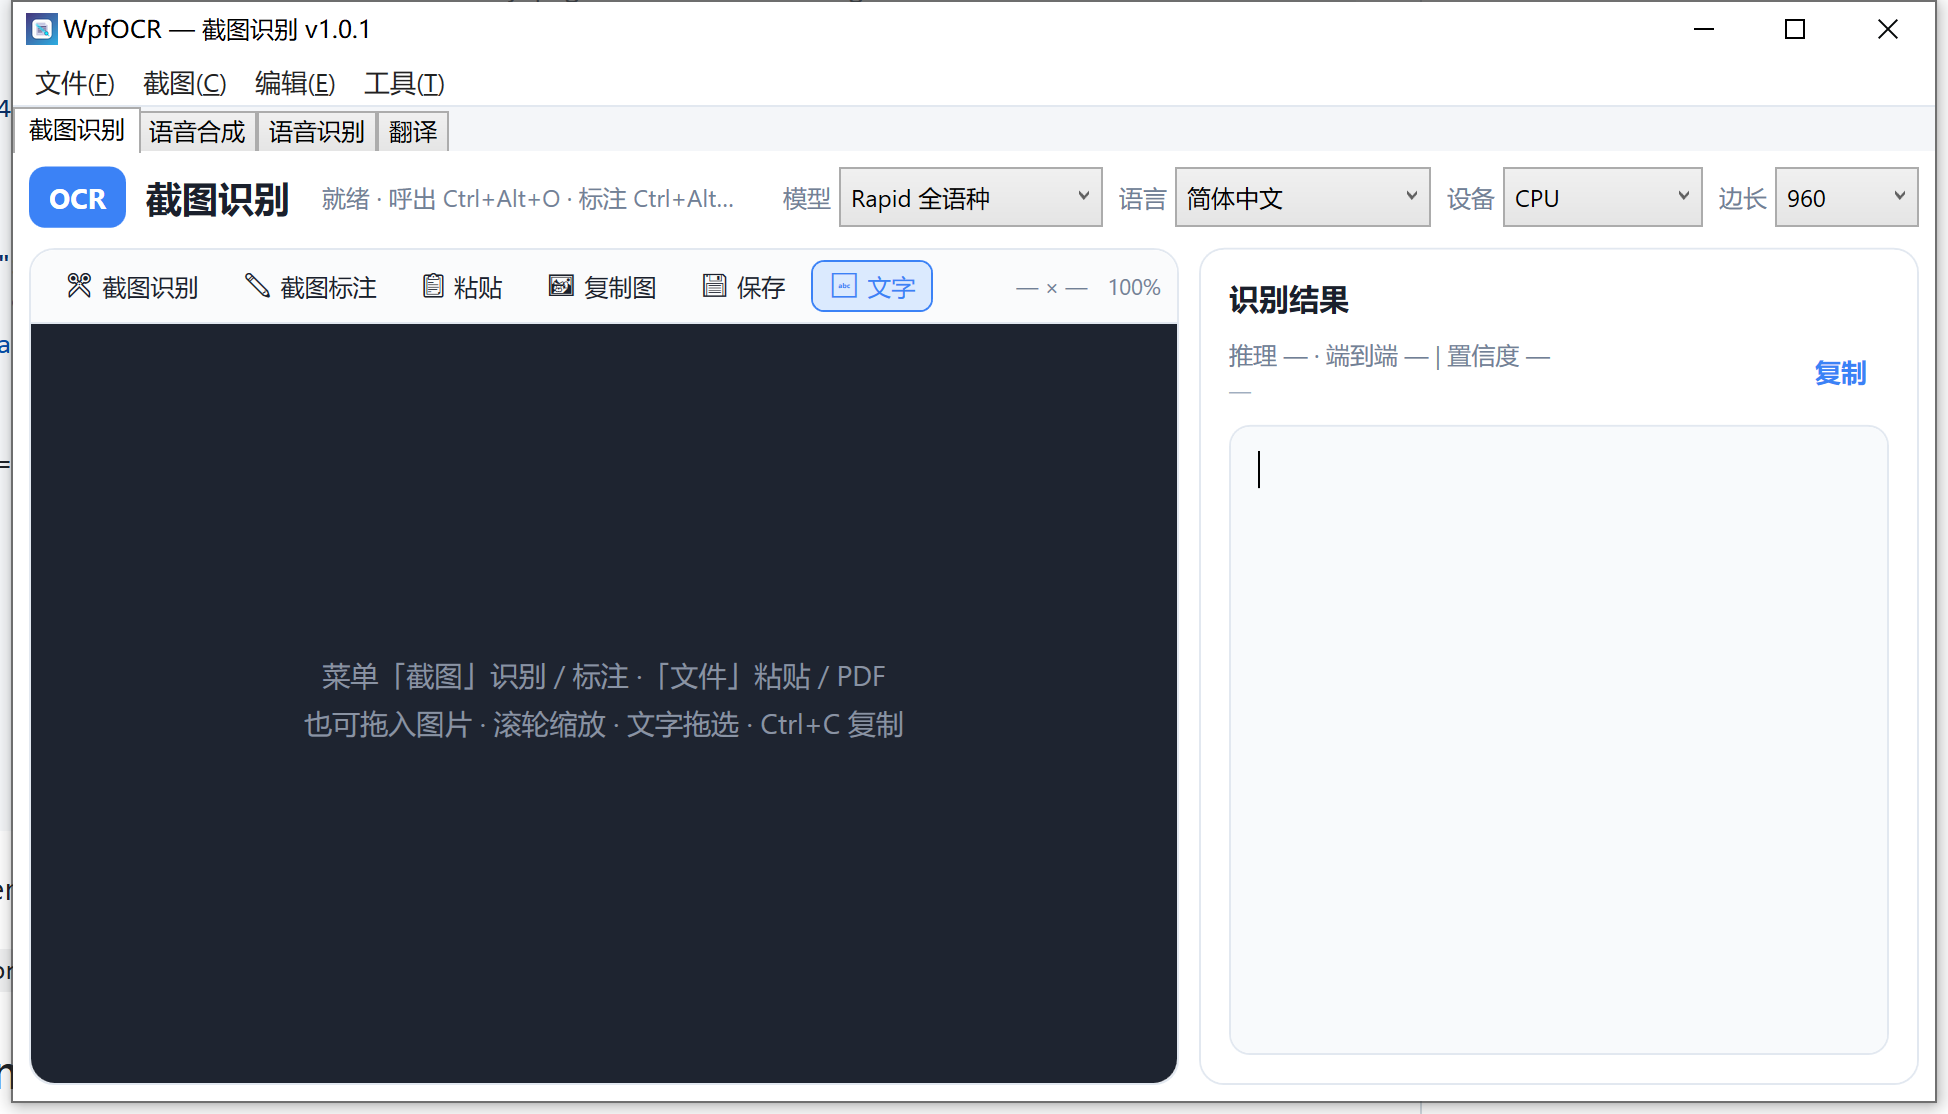
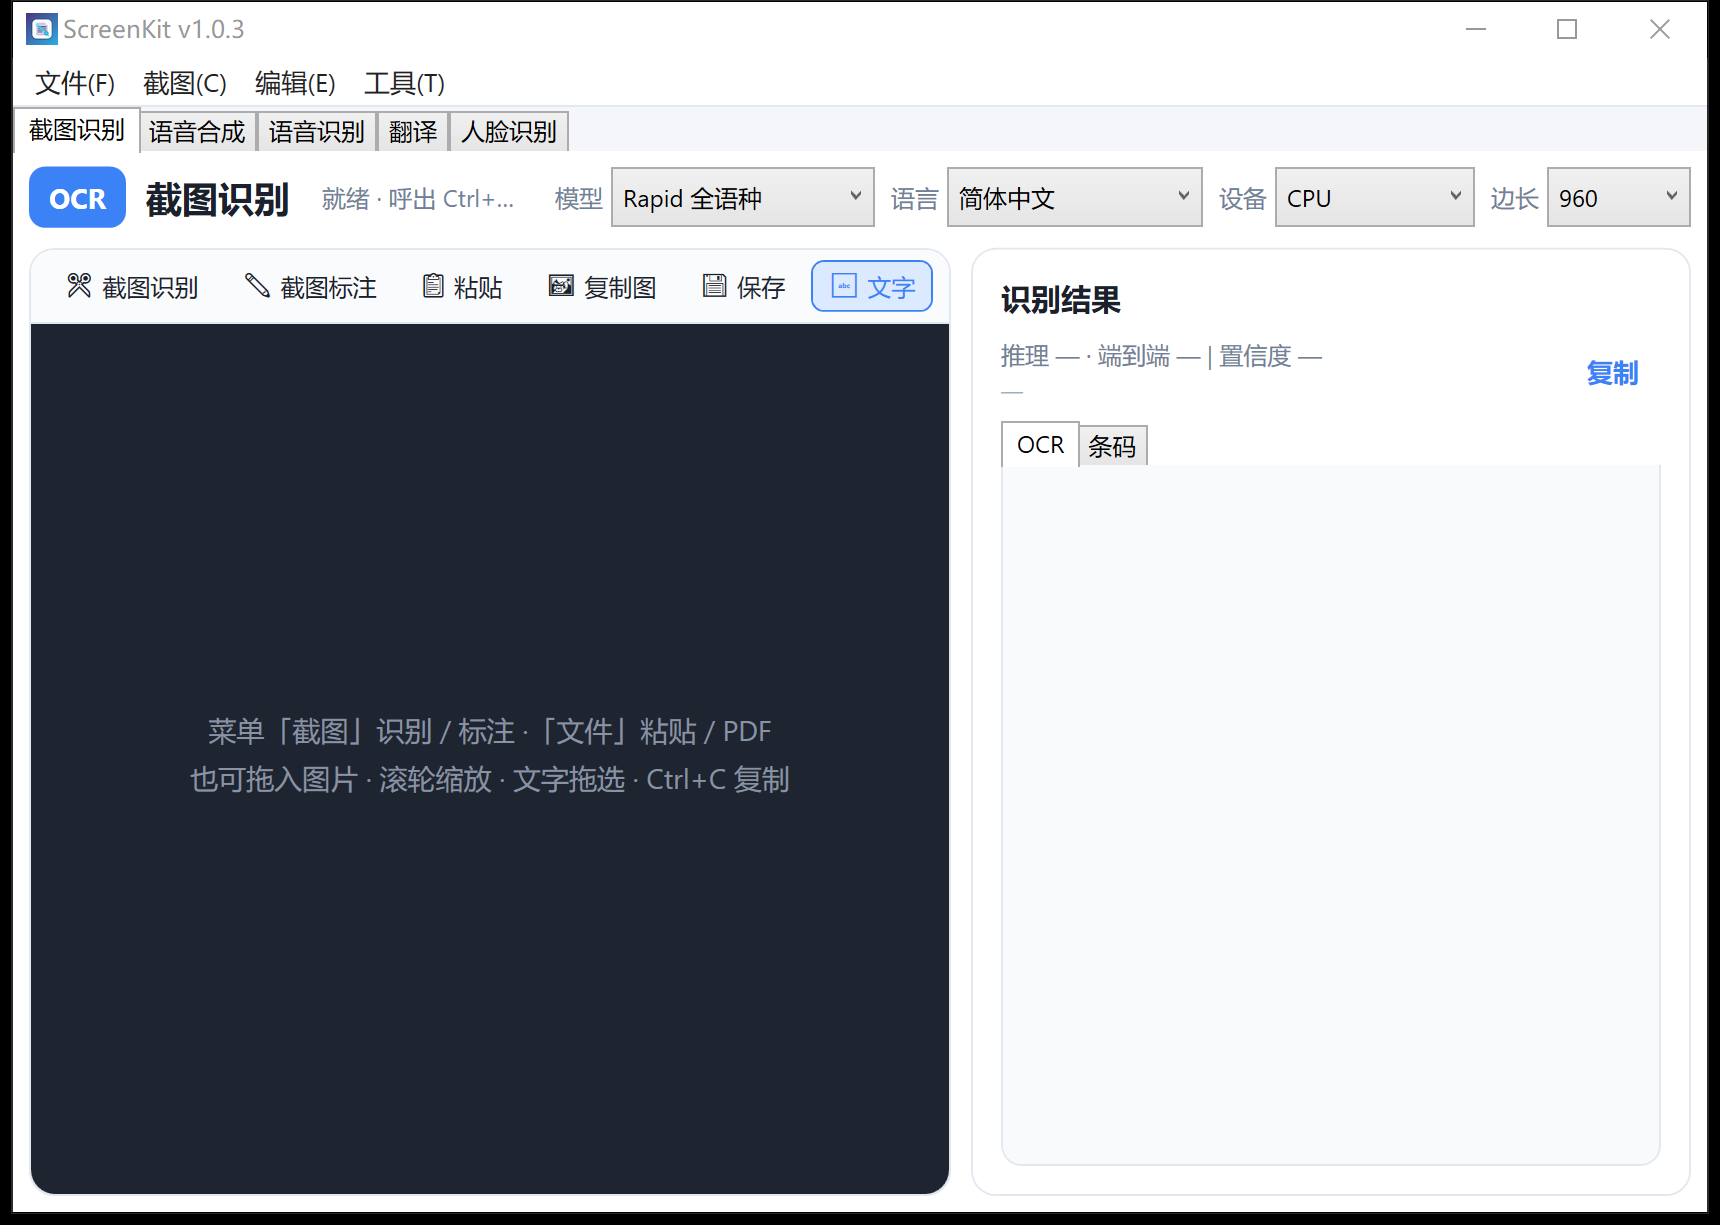
README 增加英文界面截图，并修复主窗口 Tab 不随语言切换。

diff --git a/ScreenKit/Infrastructure/Loc.cs b/ScreenKit/Infrastructure/Loc.cs
@@ -158,6 +158,8 @@ static class Loc {
 		// 主 Tab
 		["tab.ocr"] = "截图识别",
 		["tab.tts"] = "语音合成",
+		["tab.asr"] = "语音识别",
+		["tab.translate"] = "翻译",
 		["tab.face"] = "人脸识别",
 
 		// 工具栏
@@ -476,7 +478,9 @@ static class Loc {
 		["device.igpu.tip"] = "Intel iGPU via DirectML",
 
 		["tab.ocr"] = "Screenshot OCR",
-		["tab.tts"] = "Speech",
+		["tab.tts"] = "TTS",
+		["tab.asr"] = "ASR",
+		["tab.translate"] = "Translate",
 		["tab.face"] = "Face",
 
 		["tb.ocr"] = "OCR",

diff --git a/ScreenKit/MainWindow.xaml.cs b/ScreenKit/MainWindow.xaml.cs
@@ -1073,6 +1073,11 @@ public partial class MainWindow : Window {
 			mnabout.Header = Loc.T("menu.about");
 			mnabout.ToolTip = Loc.T("menu.about.tip");
 
+			tabocr.Header = Loc.T("tab.ocr");
+			tabtts.Header = Loc.T("tab.tts");
+			tabasr.Header = Loc.T("tab.asr");
+			tabtr.Header = Loc.T("tab.translate");
+
 			// 顶栏
 			lbpack.Text = Loc.T("label.pack");
 			lbvariant.Text = Loc.T("label.variant");

diff --git a/CHANGELOG.md b/CHANGELOG.md
@@ -4,6 +4,28 @@ All notable changes to ScreenKit are documented here. / 本文件记录 ScreenKi
 
 Format based on [Keep a Changelog](https://keepachangelog.com/). Versions are project milestones. / 格式基于 Keep a Changelog，版本号表示项目里程碑。
 
+## Unreleased
+
+### English
+
+#### Changed
+
+- README screenshot: English UI in `docs/1 screenshot.en.png`; Chinese README uses an updated `docs/1 screenshot.png` (ScreenKit 1.0.3).
+
+#### Fixed
+
+- Main window tabs (Screenshot OCR / TTS / ASR / Translate) follow the UI language.
+
+### 中文
+
+#### 变更
+
+- README 增加英文界面截图 `docs/1 screenshot.en.png`；中文 README 截图更新为当前 ScreenKit 主界面。
+
+#### 修复
+
+- 主窗口顶栏 Tab（截图识别 / 语音合成 / 语音识别 / 翻译）随界面语言切换。
+
 ## v1.0.3 (2026-08-30)
 
 ### English

diff --git a/README.md b/README.md
@@ -8,7 +8,7 @@ Current version: **1.0.3**
 
 ## Screenshots
 
-![ScreenKit main window](docs/1%20screenshot.png)
+![ScreenKit main window](docs/1%20screenshot.en.png)
 
 ## Features
 
